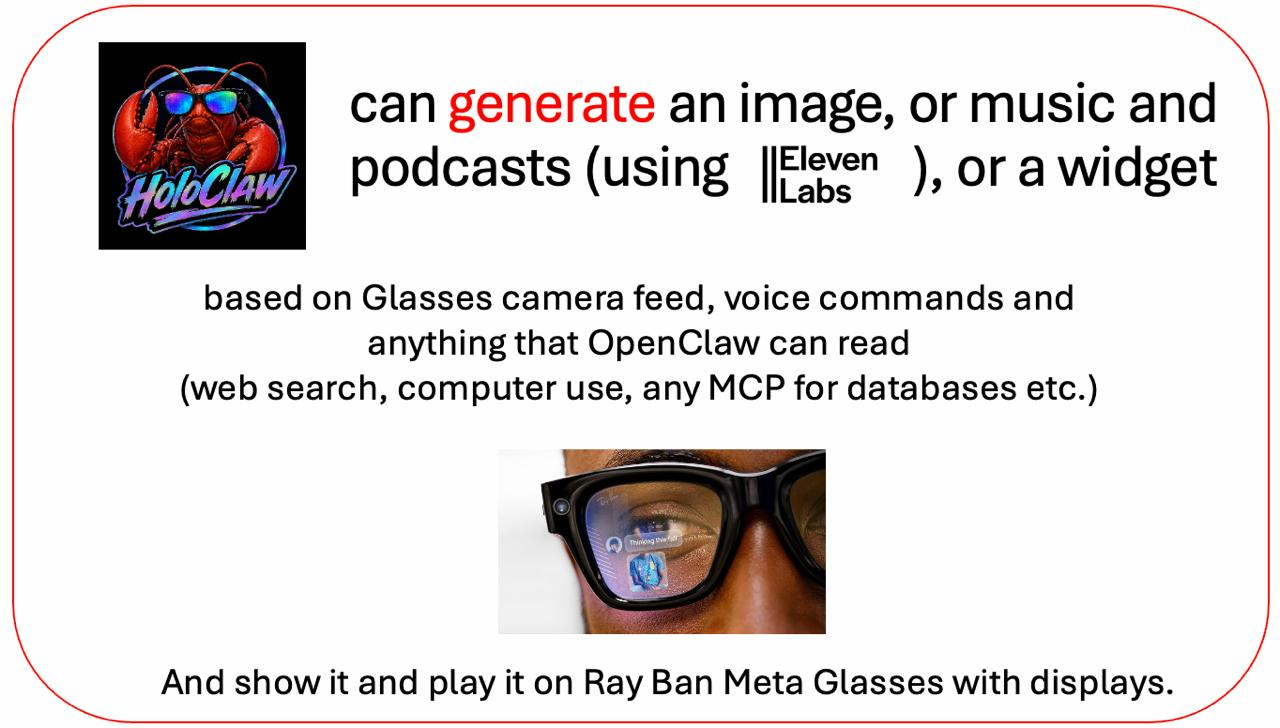
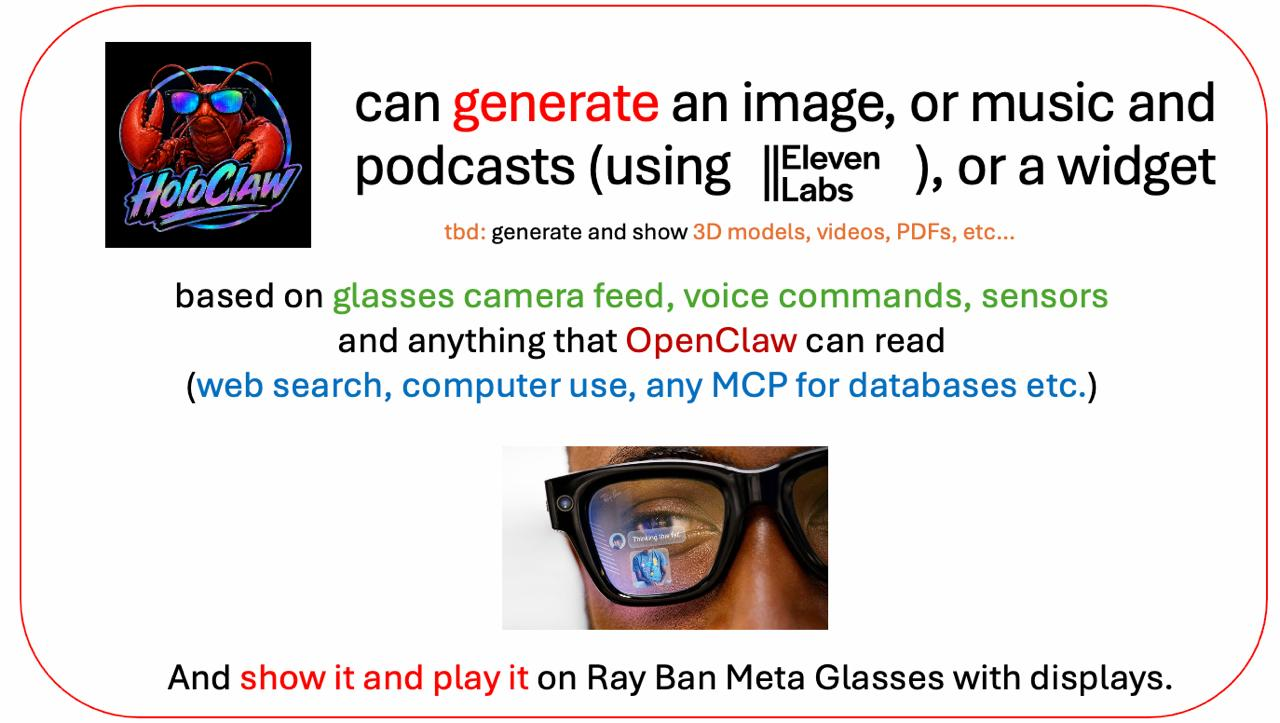
Update README and implement music playback features in HoloClaw
- Replaced ElevenLabs image in README and added details about audio content generation.
- Introduced MusicPlayer class for handling audio playback of ElevenLabs tracks.
- Updated WidgetSpec to include a new Music type for audio widgets.
- Enhanced WidgetBoardView to support music playback controls.
- Implemented automatic rendering of audio links from ElevenLabs in GeminiSessionViewModel.

These changes enhance the user experience by integrating audio playback capabilities alongside existing visual features.

diff --git a/samples/CameraAccessAndroid/app/src/main/java/com/meta/wearable/dat/externalsampleapps/cameraaccess/display/MusicPlayer.kt b/samples/CameraAccessAndroid/app/src/main/java/com/meta/wearable/dat/externalsampleapps/cameraaccess/display/MusicPlayer.kt
@@ -1,0 +1,132 @@
+/*
+ * Copyright (c) Meta Platforms, Inc. and affiliates.
+ * All rights reserved.
+ *
+ * This source code is licensed under the license found in the
+ * LICENSE file in the root directory of this source tree.
+ */
+
+package com.meta.wearable.dat.externalsampleapps.cameraaccess.display
+
+import android.content.Context
+import android.media.AudioAttributes
+import android.media.AudioFocusRequest
+import android.media.AudioManager as SystemAudioManager
+import android.media.MediaPlayer
+import android.util.Log
+import kotlinx.coroutines.flow.MutableStateFlow
+import kotlinx.coroutines.flow.StateFlow
+import kotlinx.coroutines.flow.asStateFlow
+
+/**
+ * Plays a music or podcast URL (e.g. an Eleven Labs track returned by OpenClaw) via
+ * [MediaPlayer]. The DAT SDK has no glasses audio-playback API, so playback uses
+ * Android audio, which routes to Ray-Ban Meta glasses over Bluetooth when connected.
+ */
+object MusicPlayer {
+    private const val TAG = "MusicPlayer"
+
+    private val _isPlaying = MutableStateFlow(false)
+    val isPlaying: StateFlow<Boolean> = _isPlaying.asStateFlow()
+
+    private val _currentUrl = MutableStateFlow<String?>(null)
+    val currentUrl: StateFlow<String?> = _currentUrl.asStateFlow()
+
+    private var appContext: Context? = null
+    private var mediaPlayer: MediaPlayer? = null
+    private var audioFocusRequest: AudioFocusRequest? = null
+
+    fun init(context: Context) {
+        appContext = context.applicationContext
+    }
+
+    fun isPlaying(url: String): Boolean = _isPlaying.value && _currentUrl.value == url
+
+    fun play(url: String) {
+        val context = appContext ?: return
+        if (_currentUrl.value != url || mediaPlayer == null) {
+            releasePlayer()
+            _currentUrl.value = url
+            mediaPlayer =
+                MediaPlayer().apply {
+                    setAudioAttributes(
+                        AudioAttributes.Builder()
+                            .setUsage(AudioAttributes.USAGE_MEDIA)
+                            .setContentType(AudioAttributes.CONTENT_TYPE_MUSIC)
+                            .build(),
+                    )
+                    setOnPreparedListener {
+                        requestAudioFocus(context)
+                        start()
+                        _isPlaying.value = true
+                    }
+                    setOnCompletionListener {
+                        _isPlaying.value = false
+                        abandonAudioFocus(context)
+                    }
+                    setOnErrorListener { _, what, extra ->
+                        Log.w(TAG, "Playback error what=$what extra=$extra")
+                        _isPlaying.value = false
+                        abandonAudioFocus(context)
+                        true
+                    }
+                    try {
+                        setDataSource(url)
+                        prepareAsync()
+                    } catch (e: Exception) {
+                        Log.w(TAG, "Failed to load $url", e)
+                        releasePlayer()
+                    }
+                }
+        } else {
+            requestAudioFocus(context)
+            mediaPlayer?.start()
+            _isPlaying.value = true
+        }
+    }
+
+    fun pause() {
+        mediaPlayer?.pause()
+        _isPlaying.value = false
+        appContext?.let { abandonAudioFocus(it) }
+    }
+
+    fun toggle(url: String) {
+        if (isPlaying(url)) pause() else play(url)
+    }
+
+    fun stop() {
+        releasePlayer()
+        _isPlaying.value = false
+        _currentUrl.value = null
+    }
+
+    private fun releasePlayer() {
+        appContext?.let { abandonAudioFocus(it) }
+        mediaPlayer?.reset()
+        mediaPlayer?.release()
+        mediaPlayer = null
+    }
+
+    private fun requestAudioFocus(context: Context) {
+        val audioManager = context.getSystemService(Context.AUDIO_SERVICE) as SystemAudioManager
+        val request =
+            AudioFocusRequest.Builder(SystemAudioManager.AUDIOFOCUS_GAIN_TRANSIENT_MAY_DUCK)
+                .setAudioAttributes(
+                    AudioAttributes.Builder()
+                        .setUsage(AudioAttributes.USAGE_MEDIA)
+                        .setContentType(AudioAttributes.CONTENT_TYPE_MUSIC)
+                        .build(),
+                )
+                .build()
+        audioFocusRequest = request
+        audioManager.requestAudioFocus(request)
+    }
+
+    private fun abandonAudioFocus(context: Context) {
+        val request = audioFocusRequest ?: return
+        val audioManager = context.getSystemService(Context.AUDIO_SERVICE) as SystemAudioManager
+        audioManager.abandonAudioFocusRequest(request)
+        audioFocusRequest = null
+    }
+}

diff --git a/samples/CameraAccessAndroid/app/src/main/java/com/meta/wearable/dat/externalsampleapps/cameraaccess/gemini/GeminiSessionViewModel.kt b/samples/CameraAccessAndroid/app/src/main/java/com/meta/wearable/dat/externalsampleapps/cameraaccess/gemini/GeminiSessionViewModel.kt
@@ -3,6 +3,8 @@ package com.meta.wearable.dat.externalsampleapps.cameraaccess.gemini
 import android.content.Context
 import android.graphics.Bitmap
 import android.util.Log
+import android.util.Patterns
+import com.meta.wearable.dat.externalsampleapps.cameraaccess.display.MusicPlayer
 import androidx.lifecycle.ViewModel
 import androidx.lifecycle.viewModelScope
 import com.meta.wearable.dat.externalsampleapps.cameraaccess.display.WidgetSpec
@@ -67,6 +69,7 @@ class GeminiSessionViewModel : ViewModel() {
         }
 
         _uiState.value = _uiState.value.copy(isGeminiActive = true)
+        MusicPlayer.init(context)
 
         // Wire audio callbacks
         audioManager.onAudioCaptured = lambda@{ data ->
@@ -131,8 +134,10 @@ class GeminiSessionViewModel : ViewModel() {
                     if (action == "render" || hasWidgets) {
                         handleRenderWidgets(call)
                     } else {
+                        val task = call.args["task"]?.toString()
                         toolCallRouter?.handleToolCall(call) { response ->
                             geminiService.sendToolResponse(response)
+                            maybeRenderResultLink(task, response)
                         }
                     }
                 }
@@ -203,6 +208,7 @@ class GeminiSessionViewModel : ViewModel() {
     }
 
     fun stopSession() {
+        MusicPlayer.stop()
         eventClient.disconnect()
         toolCallRouter?.cancelAll()
         toolCallRouter = null
@@ -259,6 +265,64 @@ class GeminiSessionViewModel : ViewModel() {
                 )
             }
         geminiService.sendToolResponse(response)
+    }
+
+    /**
+     * If a delegated music/podcast or image task returns a public URL (e.g. from Eleven Labs
+     * via OpenClaw), show it as a widget on the phone and glasses and auto-play audio.
+     */
+    private fun maybeRenderResultLink(task: String?, response: org.json.JSONObject) {
+        val result = resultString(response) ?: return
+        val url = firstUrl(result) ?: return
+        val taskLower = (task ?: "").lowercase()
+        val urlLower = url.lowercase()
+
+        val isImage =
+            taskLower.contains("image") ||
+                taskLower.contains("picture") ||
+                taskLower.contains("photo") ||
+                listOf("png", "jpg", "jpeg", "webp", "gif", "heic").any { urlLower.contains(".$it") }
+        val isAudio =
+            taskLower.contains("eleven") ||
+                taskLower.contains("music") ||
+                taskLower.contains("vibe") ||
+                taskLower.contains("podcast") ||
+                listOf("mp3", "wav", "m4a", "aac", "ogg", "flac").any { urlLower.contains(".$it") }
+
+        val widget =
+            when {
+                isImage ->
+                    WidgetSpec(
+                        kind = WidgetSpec.Kind.Image(url = url, caption = "Generated image"),
+                    )
+                isAudio -> {
+                    val title =
+                        if (taskLower.contains("podcast")) "Your podcast 🎙"
+                        else "Your vibe track 🎵"
+                    WidgetSpec(kind = WidgetSpec.Kind.Music(url = url, title = title))
+                }
+                else -> return
+            }
+
+        Log.d(TAG, "auto-rendered ${if (isImage) "image" else "audio"} link: $url")
+        _uiState.value = _uiState.value.copy(widgets = listOf(widget))
+        onWidgetsRendered?.invoke(listOf(widget))
+        if (isAudio) {
+            MusicPlayer.play(url)
+        }
+    }
+
+    private fun resultString(response: org.json.JSONObject): String? {
+        val toolResponse = response.optJSONObject("toolResponse") ?: return null
+        val functionResponses = toolResponse.optJSONArray("functionResponses") ?: return null
+        val resp = functionResponses.optJSONObject(0)?.optJSONObject("response") ?: return null
+        return resp.optString("result").takeIf { it.isNotEmpty() }
+            ?: resp.optString("error").takeIf { it.isNotEmpty() }
+    }
+
+    private fun firstUrl(text: String): String? {
+        val matcher = Patterns.WEB_URL.matcher(text)
+        return if (matcher.find()) matcher.group() else null
     }
 
     override fun onCleared() {

diff --git a/samples/CameraAccessAndroid/app/src/main/java/com/meta/wearable/dat/externalsampleapps/cameraaccess/display/WidgetBoardView.kt b/samples/CameraAccessAndroid/app/src/main/java/com/meta/wearable/dat/externalsampleapps/cameraaccess/display/WidgetBoardView.kt
@@ -15,11 +15,19 @@ import androidx.compose.foundation.layout.Row
 import androidx.compose.foundation.layout.fillMaxWidth
 import androidx.compose.foundation.layout.height
 import androidx.compose.foundation.layout.padding
+import androidx.compose.foundation.layout.width
 import androidx.compose.foundation.shape.RoundedCornerShape
-import androidx.compose.material3.CircularProgressIndicator
+import androidx.compose.material.icons.Icons
+import androidx.compose.material.icons.filled.PauseCircle
+import androidx.compose.material.icons.filled.PlayCircle
+import androidx.compose.material3.Icon
+import androidx.compose.material3.IconButton
 import androidx.compose.material3.Text
 import androidx.compose.runtime.Composable
+import androidx.compose.runtime.getValue
+import androidx.compose.ui.Alignment
 import androidx.compose.ui.Modifier
+import androidx.lifecycle.compose.collectAsStateWithLifecycle
 import androidx.compose.ui.draw.clip
 import androidx.compose.ui.graphics.Color
 import androidx.compose.ui.text.font.FontWeight
@@ -44,11 +52,13 @@ private fun WidgetCard(widget: WidgetSpec) {
         is WidgetSpec.Kind.Text -> TextWidgetCard(title = kind.title, bodyText = kind.body)
         is WidgetSpec.Kind.Image ->
             ImageWidgetCard(
-                imageUrl = kind.imageKind.url,
-                caption = kind.caption?.takeIf { it.isNotEmpty() } ?: kind.imageKind.defaultCaption,
+                imageUrl = kind.url,
+                caption = kind.caption?.takeIf { it.isNotEmpty() } ?: "Image",
             )
         is WidgetSpec.Kind.Table ->
             TableWidgetCard(title = kind.title, columns = kind.columns, rows = kind.rows)
+        is WidgetSpec.Kind.Music ->
+            MusicPlayerWidget(url = kind.url, title = kind.title ?: "Track")
     }
 }
 
@@ -93,6 +103,40 @@ private fun ImageWidgetCard(imageUrl: String, caption: String) {
             color = Color.White.copy(alpha = 0.6f),
             modifier = Modifier.padding(top = 8.dp),
         )
+    }
+}
+
+@Composable
+private fun MusicPlayerWidget(url: String, title: String) {
+    val isPlaying by MusicPlayer.isPlaying.collectAsStateWithLifecycle()
+    val currentUrl by MusicPlayer.currentUrl.collectAsStateWithLifecycle()
+    val playingThis = isPlaying && currentUrl == url
+
+    Row(
+        modifier = Modifier.fillMaxWidth().displayCardStyle().padding(16.dp),
+        verticalAlignment = Alignment.CenterVertically,
+    ) {
+        IconButton(onClick = { MusicPlayer.toggle(url) }) {
+            Icon(
+                imageVector = if (playingThis) Icons.Filled.PauseCircle else Icons.Filled.PlayCircle,
+                contentDescription = if (playingThis) "Pause" else "Play",
+                tint = Color.White,
+                modifier = Modifier.height(44.dp).width(44.dp),
+            )
+        }
+        Column(modifier = Modifier.padding(start = 4.dp)) {
+            Text(
+                text = title,
+                fontSize = 16.sp,
+                fontWeight = FontWeight.SemiBold,
+                color = Color.White,
+            )
+            Text(
+                text = if (playingThis) "Playing on your glasses…" else "Tap to play",
+                fontSize = 12.sp,
+                color = Color.White.copy(alpha = 0.6f),
+            )
+        }
     }
 }
 

diff --git a/samples/CameraAccessAndroid/app/src/main/java/com/meta/wearable/dat/externalsampleapps/cameraaccess/settings/SettingsManager.kt b/samples/CameraAccessAndroid/app/src/main/java/com/meta/wearable/dat/externalsampleapps/cameraaccess/settings/SettingsManager.kt
@@ -81,6 +81,12 @@ You have exactly ONE tool: execute. EVERY action goes through it, and you must F
    - Remember or store any information for later
    Include all relevant context (names, content, platforms, quantities). NEVER pretend to do these yourself.
 
+Vibe music (special): if the user asks to match their vibe or mood with music (for example "Match my vibes with music using Eleven Labs"), use action="delegate" with a task that (1) vividly describes what you currently see in the camera feed — the setting, mood, lighting, colors, and notable objects — and (2) says exactly: "Use the Eleven Labs music generation skill to generate a short piece of music matching this scene, store it at a public URL, and return that URL." Briefly confirm out loud (e.g. "Composing a track for this vibe…"). The returned music link is shown to the user automatically as a card, so you don't need to render it yourself.
+
+Podcast (special): if the user asks for a podcast episode about something they see or a topic they mention (for example "Make me a podcast about what I'm looking at"), use action="delegate" with a task that (1) summarizes the topic from the camera feed and voice context and (2) says exactly: "Use the Eleven Labs podcast generation skill to generate a short podcast episode about [topic], store it at a public URL, and return that URL." Briefly confirm out loud (e.g. "Recording a podcast for you…"). The returned podcast link is shown and played automatically, so you don't need to render it yourself.
+
+Image generation (special): if the user asks to generate, create, or make an image or picture (for example "generate an image of a neon city" or "make me a picture of this scene"), use action="delegate" with a task that says exactly: "Use the Gemini image generation skill to generate an image of [the subject the user described, adding relevant detail from what you currently see in the camera feed], store it at a public URL, and return that URL." Briefly confirm out loud. The returned image is shown to the user automatically as an image card, so you don't need to render it yourself.
+
 Choosing: if the request is only about SHOWING information on screen, use action="render". If it needs something done in the real world, use action="delegate". When in doubt about a real-world task, delegate.
 
 IMPORTANT: Before calling execute with action="delegate", ALWAYS speak a brief acknowledgment first ("Sure, adding that now." / "Got it, searching." / "On it, sending that message."). delegate may take several seconds, so the acknowledgment tells the user something is happening. For action="render", just narrate naturally as the cards appear.

diff --git a/samples/CameraAccessAndroid/app/src/main/java/com/meta/wearable/dat/externalsampleapps/cameraaccess/display/WidgetSpec.kt b/samples/CameraAccessAndroid/app/src/main/java/com/meta/wearable/dat/externalsampleapps/cameraaccess/display/WidgetSpec.kt
@@ -40,10 +40,13 @@ data class WidgetSpec(
     sealed class Kind {
         data class Text(val title: String?, val body: String) : Kind()
 
-        data class Image(val imageKind: WidgetImageKind, val caption: String?) : Kind()
+        data class Image(val url: String, val caption: String?) : Kind()
 
         data class Table(val title: String?, val columns: List<String>?, val rows: List<List<String>>) :
             Kind()
+
+        /** A playable audio track (e.g. Eleven Labs music or podcast URL from OpenClaw). */
+        data class Music(val url: String, val title: String?) : Kind()
     }
 
     companion object {
@@ -76,7 +79,13 @@ data class WidgetSpec(
                         dict.optString("imageKind", dict.optString("kind", "map")).lowercase()
                     val imageKind = WidgetImageKind.from(kindString)
                     val caption = dict.optString("caption").takeIf { it.isNotEmpty() }
-                    WidgetSpec(kind = Kind.Image(imageKind = imageKind, caption = caption))
+                    WidgetSpec(
+                        kind =
+                            Kind.Image(
+                                url = imageKind.url,
+                                caption = caption ?: imageKind.defaultCaption,
+                            ),
+                    )
                 }
                 "table" -> {
                     val columns = dict.optJSONArray("columns")?.toStringList()

diff --git a/samples/CameraAccessAndroid/app/src/main/java/com/meta/wearable/dat/externalsampleapps/cameraaccess/display/DisplayWidgets.kt b/samples/CameraAccessAndroid/app/src/main/java/com/meta/wearable/dat/externalsampleapps/cameraaccess/display/DisplayWidgets.kt
@@ -69,13 +69,22 @@ object DisplayWidgets {
                     background = FlexBoxBackground.CARD,
                 ) {
                     image(
-                        uri = kind.imageKind.url,
+                        uri = kind.url,
                         sizePreset = ImageSize.FILL,
                         cornerRadius = CornerRadius.MEDIUM,
                     )
-                    val caption =
-                        kind.caption?.takeIf { it.isNotEmpty() } ?: kind.imageKind.defaultCaption
+                    val caption = kind.caption?.takeIf { it.isNotEmpty() } ?: "Image"
                     text(caption, style = TextStyle.BODY, color = TextColor.SECONDARY)
+                }
+            is WidgetSpec.Kind.Music ->
+                flexBox(
+                    direction = Direction.COLUMN,
+                    gap = 8,
+                    padding = 18,
+                    background = FlexBoxBackground.CARD,
+                ) {
+                    text(kind.title ?: "Track", style = TextStyle.HEADING)
+                    text("Playing on your glasses…", style = TextStyle.BODY, color = TextColor.SECONDARY)
                 }
             is WidgetSpec.Kind.Table ->
                 flexBox(

diff --git a/README.md b/README.md
@@ -1,5 +1,5 @@
 <p align="center">
-  <img src="assets/logo.png" alt="HoloClaw logo" width="280">
+  <img src="assets/elevenlabs.png" alt="HoloClaw logo" width="280">
 </p>
 
 # HoloClaw
@@ -49,10 +49,6 @@ At a high level, the loop is simple and bidirectional:
 Data flows out from the wearable through the app to OpenClaw; answers, widgets, and generated visuals flow back through voice and the in-lens display.
 
 ### ElevenLabs
-
-<p align="center">
-  <img src="assets/elevenlabs.jpeg" alt="HoloClaw and ElevenLabs" width="720">
-</p>
 
 HoloClaw does not only **show** structured widget cards — it can **generate** new content from your context. Through **OpenClaw**, the assistant can create **images** from the camera feed, your voice, and tool results (web search, computer use, MCP databases, and more), then push them to the Ray-Ban display alongside widgets.
 
